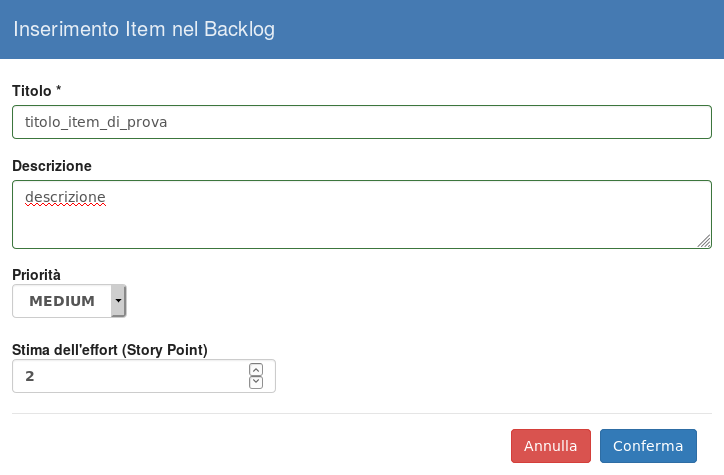
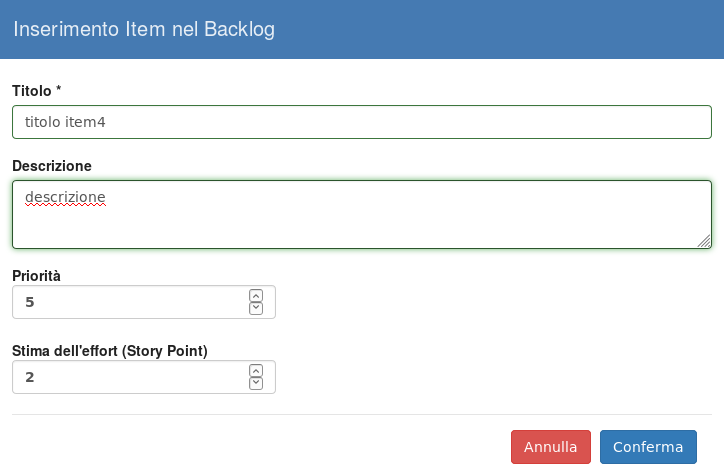
guida scrum

diff --git a/app/guida.html b/app/guida.html
@@ -70,7 +70,7 @@
                 <div class="col-md-3">
                     <nav class="docs-sidebar" data-spy="affix" data-offset-top="300" data-offset-bottom="200" role="navigation">
                         <ul class="nav">
-                            <li><a href="#line1">Inserimento Scrum Team</a></li>
+                            <li><a href="#line1">Gestione Scrum Team</a></li>
                             <li><a href="#line2">Gestione Product Workflow</a></li>
                             <li><a href="#line3">Assegnare prodotti agli scrum team</a></li>
                             <li><a href="#line4">Gestione del backlog</a></li>
@@ -114,7 +114,7 @@
 
                         <div class="row">
                             <div class="col-md-12 left-align">
-                                <h2 class="dark-text">Inserimento Scrum Team <a href="#top">#back to top</a><hr></h2>
+                                <h2 class="dark-text">Gestione Scrum Team <a href="#top">#back to top</a><hr></h2>
                             </div>
                             <!-- end col -->
                         </div>
@@ -128,7 +128,7 @@
                             <div class="col-md-8">
                                 <h4 id="line7_1">Creazione di un nuovo scrum team - <a href="#top">#back to top</a></h4>
                                 <p>
-					Per creare un nuovo scrum team occorre cliccare su “Inserisci Scrum Team” nel menù Scrum.
+					Per creare un nuovo scrum team occorre cliccare su “Elenco Scrum Team” nel menù Scrum, e poi cliccare su "Aggiungi uno Scrum Team" nella finestra che appare.
 				</p>
                             </div>
                             <!-- end col -->
@@ -148,6 +148,23 @@
                                 <p>
 					Poi bisogna assegnare al team un nome, uno scrum master, un product owner e dei team member.
 					Ed infine cliccare su “Costruisci Scrum Team”.
+				</p>
+                            </div>
+                            <!-- end col -->
+                        </div>
+                        <!-- end row -->
+
+                        <hr>
+
+			<div class="row">
+                            <div class="col-md-4">
+                                <a href="images/creazionescrumteam/creazionescrumteam2.png" data-rel="prettyPhoto"><img src="images/creazionescrumteam/creazionescrumteam2.png"" alt="" class="img-responsive img-thumbnail"></a>
+                            </div>
+
+                            <div class="col-md-8">
+                                <h4 id="line7_1">Cancellazione di uno scrum team - <a href="#top">#back to top</a></h4>
+                                <p>
+					Se si è loggati come admin e lo scrum team non ha prodotti assegnati è possibile rimuoverlo. Cliccare sulla voce "Elenco scrum team" del menù Scrum e poi sull'apposita icona nella tabella che compare.
 				</p>
                             </div>
                             <!-- end col -->
@@ -181,7 +198,7 @@
                             <div class="col-md-8">
                                 <h4 id="line7_1">Creazione di un nuovo workflow - <a href="#top">#back to top</a></h4>
                                 <p>
-					Successivamente è necessario definire il workflow che gli scrum team potranno utilizzare. Per creare un nuovo workflow cliccare su “Inserisci product workflow” nel menù Scrum. 
+					Successivamente, loggandosi come Admin, è necessario definire il workflow che gli scrum team potranno utilizzare. Per creare un nuovo workflow cliccare su “Inserisci product workflow” nel menù Scrum. 
 					Fare click su “Aggiungi Scrum Product Workflow”.				
 				</p>
                             </div>
@@ -234,7 +251,7 @@
                             <div class="col-md-8">
                                 <h4 id="line7_1">Visualizzazione dei prodotti non ancora assegnati - <a href="#top">#back to top</a></h4>
                                 <p>
-					Dopo aver definito il workflow è possibile assegnare i prodotti agli scrum team. Cliccare su “Assegna prodotti” all'interno del menù Scrum.
+					Dopo essersi loggati come Admin ed aver definito il workflow è possibile assegnare i prodotti agli scrum team. Cliccare su “Assegna prodotti” all'interno del menù Scrum.
 				</p>
                             </div>
                             <!-- end col -->
@@ -306,7 +323,7 @@
                             <div class="col-md-8">
                                 <h4 id="line7_1">Aggiunta di item al backlog - <a href="#top">#back to top</a></h4>
                                 <p>
-					Compilare il dialog che appare fornendo il titolo, una descrizione, la priorità e la stima dell'effort. Infine fare click su "Conferma".
+					Per aggiungere item al backlog è necessario essere loggati come product owner. Compilare il dialog che appare fornendo il titolo, una descrizione, la priorità e la stima dell'effort. Infine fare click su "Conferma".
 				</p>
                             </div>
                             <!-- end col -->
@@ -324,6 +341,7 @@
                                 <h4 id="line7_1">Visualizzazione degli item del backlog - <a href="#top">#back to top</a></h4>
                                 <p>
 					Dopo la conferma viene mostrato l’elenco degli item presenti nel backlog.
+					Per modificare oppure eliminare gli item cliccare sulle relative icone nell'elenco.
 				</p>
                             </div>
                             <!-- end col -->
@@ -331,6 +349,11 @@
                         <!-- end row -->
 
                         <hr>
+
+
+
+
+
 
                     </section>
                     <!-- end section -->
@@ -410,7 +433,6 @@
                                 <h4 id="line7_1">Avvio di uno sprint - <a href="#top">#back to top</a></h4>
                                 <p>
 					Per far partire lo sprint, premere sull’icona di avvio. 
-				CONTINUARE !!!
 				</p>
                             </div>
                             <!-- end col -->
@@ -419,6 +441,63 @@
 
                         <hr>
 
+			<div class="row">
+                            <div class="col-md-4">
+                                <a href="images/backlog/back4.png" data-rel="prettyPhoto"><img src="images/backlog/back4.png"" alt="" class="img-responsive img-thumbnail"></a>
+                            </div>
+
+                            <div class="col-md-8">
+                                <h4 id="line7_1">Inserire item negli sprint backlog - <a href="#top">#back to top</a></h4>
+                                <p>
+					Per inserire degli item del product backlog negli sprint backlog basta cliccare sulla voce "Gestione backlog" nel menù scrum e selezionare il prodotto di interesse. Successivamente trascinare gli item dal product backlog all'interno dello sprint scelto.
+				</p>
+                            </div>
+                            <!-- end col -->
+                        </div>
+                        <!-- end row -->
+
+                        <hr>
+
+
+			<div class="row">
+	       			<div class="col-md-4">
+		                        <a href="images/sprint/sprint5.png" data-rel="prettyPhoto"><img src="images/sprint/sprint5.png"" alt="" class="img-responsive img-thumbnail"></a>
+		                    </div>
+				<div class="col-md-4">
+		                        <a href="images/sprint/sprint6.png" data-rel="prettyPhoto"><img src="images/sprint/sprint6.png"" alt="" class="img-responsive img-thumbnail"></a>
+		                    </div>
+
+                            <div class="col-md-8">
+                                <h4 id="line7_1">Gestione dello sprint backlog - <a href="#top">#back to top</a></h4>
+                                <p>
+					Tornare nella sezione "Gestione sprint" del menù scrum e selezionare il prodotto. 
+					Per spostare gli item dello sprint backlog negli stati definiti nel workflow fare click sull'icona dello sprint backlog.
+					Per visualizzare i dettagli di un item cliccare sull'icona all'interno dell'item.
+				</p>
+                            </div>
+                            <!-- end col -->
+                        </div>
+                        <!-- end row -->
+
+                        <hr>
+
+
+			<div class="row">
+                            <div class="col-md-4">
+                                <a href="images/sprint/sprint7.png" data-rel="prettyPhoto"><img src="images/sprint/sprint7.png"" alt="" class="img-responsive img-thumbnail"></a>
+                            </div>
+
+                            <div class="col-md-8">
+                                <h4 id="line7_1">Visualizzazione del burndown chart - <a href="#top">#back to top</a></h4>
+                                <p>
+					Per visualizzare il burndown chart di uno sprint cliccare sull'icona nella tabella degli sprint in "Gestione sprint" e selezionare il prodotto.
+				</p>
+                            </div>
+                            <!-- end col -->
+                        </div>
+                        <!-- end row -->
+
+                        <hr>
 
                         
 
